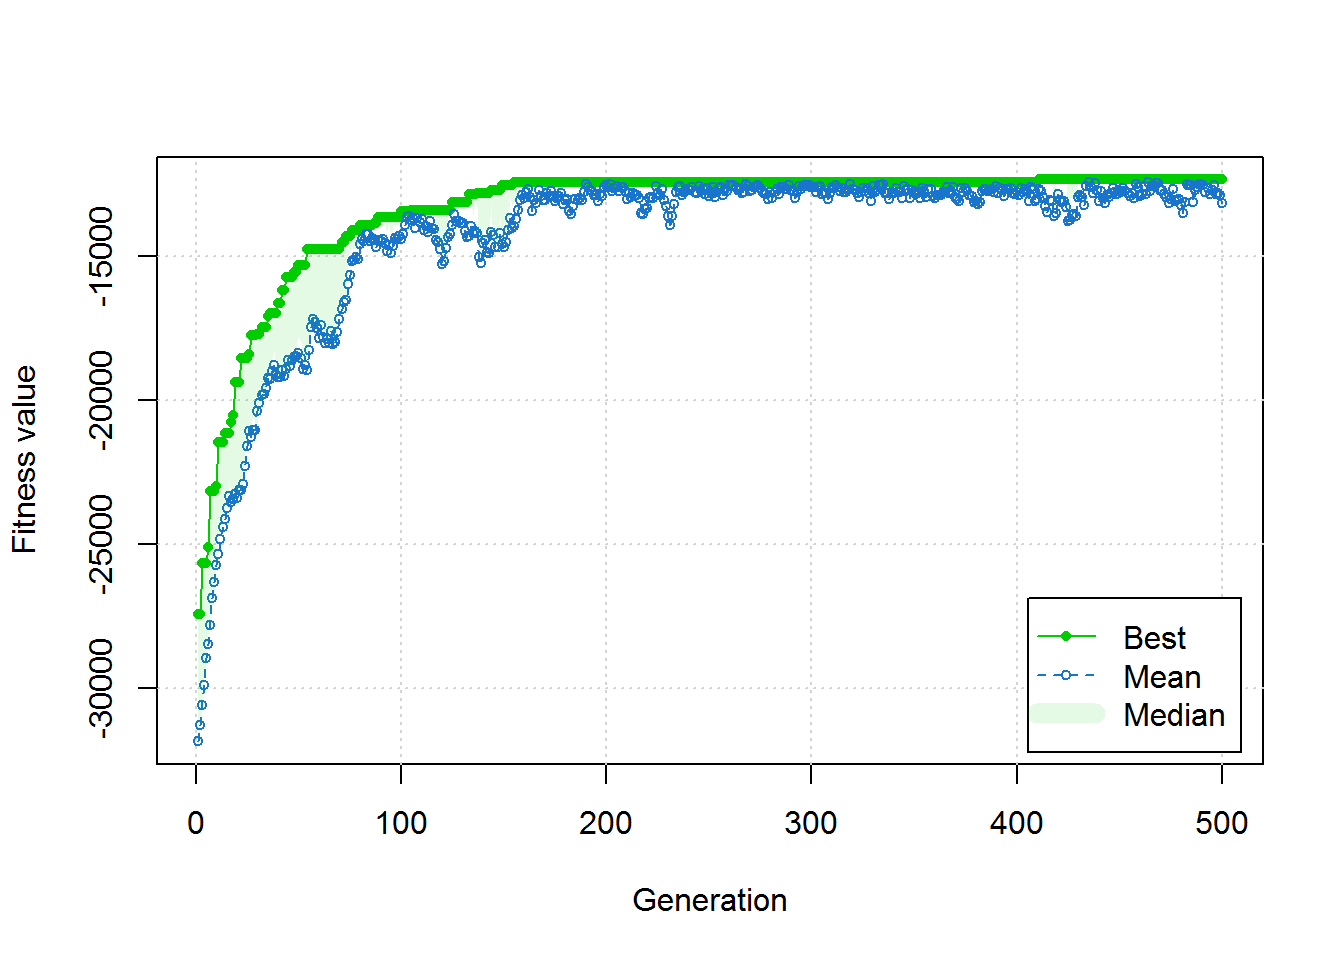
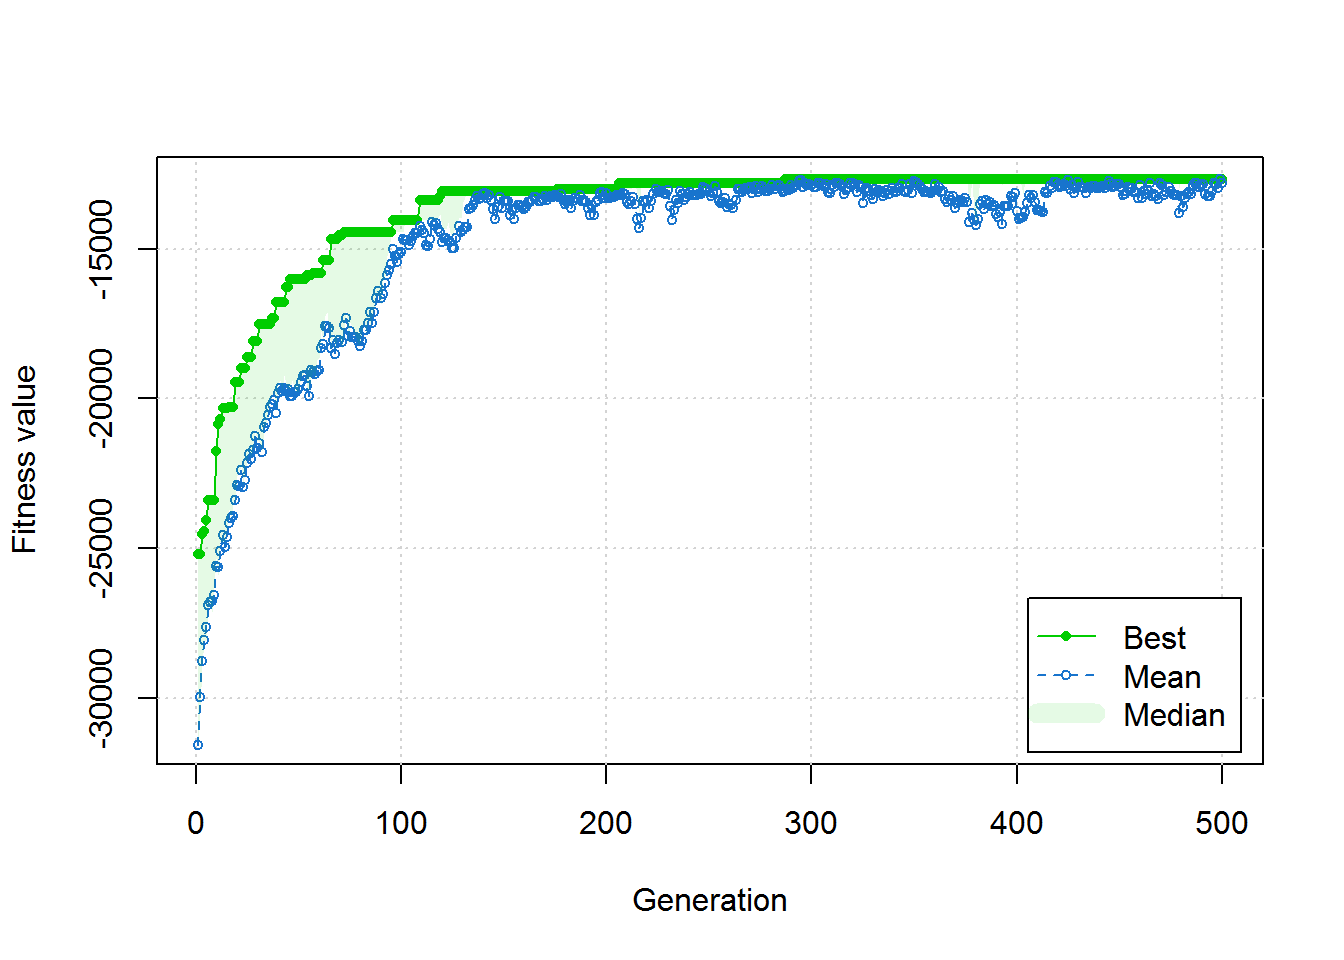
zadanie 7 z komentarzem

diff --git a/TSP.html b/TSP.html
@@ -125,7 +125,7 @@ $(document).ready(function () {
 
 <div id="problem-komiwojazera-ang.-travelling-salesman-problem" class="section level2">
 <h2>Problem Komiwojażera (ang. Travelling Salesman Problem)</h2>
-<p>Poniższy skrypt jest rozwiązaniem zadań z laboratorium Sztucznej inteligejncji będącego przedmiotem na kierunku Data Science na Politechnice Warszawskiej prowadzonego przez Ph.D. Kamila Żbikowskiego.</p>
+<p>Poniższy skrypt jest rozwiązaniem zadań z laboratorium Sztucznej inteligejncji będącego przedmiotem na kierunku Data Science w Politechnice Warszawskiej prowadzonego przez Ph.D. Kamila Żbikowskiego [1].</p>
 <p>Celem ćwiczenia jest rozwiązanie problemu komiwojażera (cyklu Hamiltona w pełnym grafie ważonym) z wykorzystaniem algorytmów genetycznych.</p>
 </div>
 <div id="zadanie-1" class="section level2">
@@ -226,14 +226,14 @@ return(distancesSum)
 <div id="zadanie-4" class="section level2">
 <h2>Zadanie 4</h2>
 <p>Teraz kiedy mamy już dosyć dobre zrozumienie problemu zastanówmy się nad jego złożonością obliczeniową w zależności od liczby miast. Czy jesteś w stanie podać aproksymację złożoności? Skorzystaj w tym celu z funkcji “factorial”.<br />
-<strong>Złożoność można określić jako [1]:<br />
+<strong>Złożoność można określić jako [2]:<br />
 Startując z pierwszego miasta mamy (n-1) miast do wyboru, z drugiego (n-2) miast do wyboru i tak dalej (n-1)(n-2)(n-3)…x3x2x1<br />
 itd. Jako, że koszt przejazdu mierzony jest w jedną stronę dzielimi wszystko przez dwa i finalnie:<br />
 (n-1)!/2</strong></p>
 </div>
 <div id="zadanie-5" class="section level2">
 <h2>Zadanie 5</h2>
-<p>W tym i kolejnych zadaniach korzystać będziemy z funkcji z biblioteki “GA”[1]. Zainstaluj i załaduj ją przy pomocy poleceń:</p>
+<p>W tym i kolejnych zadaniach korzystać będziemy z funkcji z biblioteki “GA”[3]. Zainstaluj i załaduj ją przy pomocy poleceń:</p>
 <pre class="r"><code>library(GA)</code></pre>
 <p>… wprowadzenie do Algorytmów Genetycznych</p>
 </div>
@@ -253,25 +253,31 @@ itd. Jako, że koszt przejazdu mierzony jest w jedną stronę dzielimi wszystko 
   ,min = 1
   ,max = length(cities)
   ,maxiter = 500)
-min(GA.fit@fitness)</code></pre>
-<pre><code>## [1] -18130.7</code></pre>
+GA.fit@fitnessValue</code></pre>
+<pre><code>## [1] -12688.3</code></pre>
 <pre class="r"><code>plot(GA.fit)</code></pre>
[2 lines of base64/hex data omitted]
 <ol style="list-style-type: lower-alpha">
 <li>Czy zauważyłeś problem z taką definicją zmiennych decyzyjnych w kontekście<br />
-badanego problemu? Jaką faktycznie złożoność ma takie podejście?</li>
-<li>Zwróć uwagę na fakt, iż zastosowanie operatorów krzyżowania i mutacji w wersji podstawowej spowodowałoby złamanie warunków określonych dla zmiennych decyzyjnych.<br />
-</li>
+badanego problemu? Jaką faktycznie złożoność ma takie podejście?<br />
+<strong>Szczególnymi warunkami tego problemu są wymagania aby każde miejsce zostanie odwiedzone tylko raz. Jeśli nie będziemy mieli któregoś z miast lub pojawi się ono dwa razy to nie spełnimy warunków zagadnienia </strong></li>
+<li><p>Zwróć uwagę na fakt, iż zastosowanie operatorów krzyżowania i mutacji w wersji podstawowej spowodowałoby złamanie warunków określonych dla zmiennych decyzyjnych.</p></li>
 <li><ul>
 <li>Zaproponuj operator mutacji dla omawianego problemu.<br />
-</li>
+<strong>Przedewszystkim powinniśmy zapewnić aby mutacja odbywała się poprzez tasowanie a nie losowanie które mogłoby prowadzić do niespełnienia założeń problemu. Jednym z rozwiązań [4] jest Mutacja Wymiany (ang. Swamp Mutation). W tej metodzie dwa losowo wybrane elementy (miasta) są zamieniane ze sobą miejscami</strong></li>
 </ul></li>
 <li><ul>
-<li>Zaproponuj operator krzyżowania dla omawianego problemu.</li>
+<li>Zaproponuj operator krzyżowania dla omawianego problemu.<br />
+<strong>Jednym ze sposobów jest Krzyżowanie Posortowane [4] (ang. Ordered Crossover). Wybieramy pozdzbiór kolejnych miast od rodzica a następnie dodajemy go do dzieci. Jakiekolwiek brakujące wartości dodawane są z innego rodzica z zachowaniem kolejności przy omijaniu powtarzających się miast z rodzica pierwszego.</strong></li>
 </ul></li>
 </ol>
-<p>[1] <a href="http://www.math.uwaterloo.ca/tsp/problem/pcb3cnt.html" class="uri">http://www.math.uwaterloo.ca/tsp/problem/pcb3cnt.html</a><br />
-[2] Luca Scrucca (2013). GA: A Package for Genetic Algorithms in R. Journal of Statistical Software, 53(4), 1-37. URL <a href="http://www.jstatsoft.org/v53/i04/" class="uri">http://www.jstatsoft.org/v53/i04/</a>.</p>
+</div>
+<div id="bibliografia" class="section level2">
+<h2>Bibliografia</h2>
+<p>[1] K.Żbikowski, Materiały do laboratorium ze Sztucznej Inteligencji, Politechnika Warszawska, 2017<br />
+[2] <a href="http://www.math.uwaterloo.ca/tsp/problem/pcb3cnt.html" class="uri">http://www.math.uwaterloo.ca/tsp/problem/pcb3cnt.html</a><br />
+[3] Luca Scrucca (2013). GA: A Package for Genetic Algorithms in R. Journal of Statistical Software, 53(4), 1-37. URL <a href="http://www.jstatsoft.org/v53/i04/" class="uri">http://www.jstatsoft.org/v53/i04/</a>.<br />
+[4] <a href="http://www.theprojectspot.com/tutorial-post/applying-a-genetic-algorithm-to-the-travelling-salesman-problem/5" class="uri">http://www.theprojectspot.com/tutorial-post/applying-a-genetic-algorithm-to-the-travelling-salesman-problem/5</a></p>
 </div>
 
 
